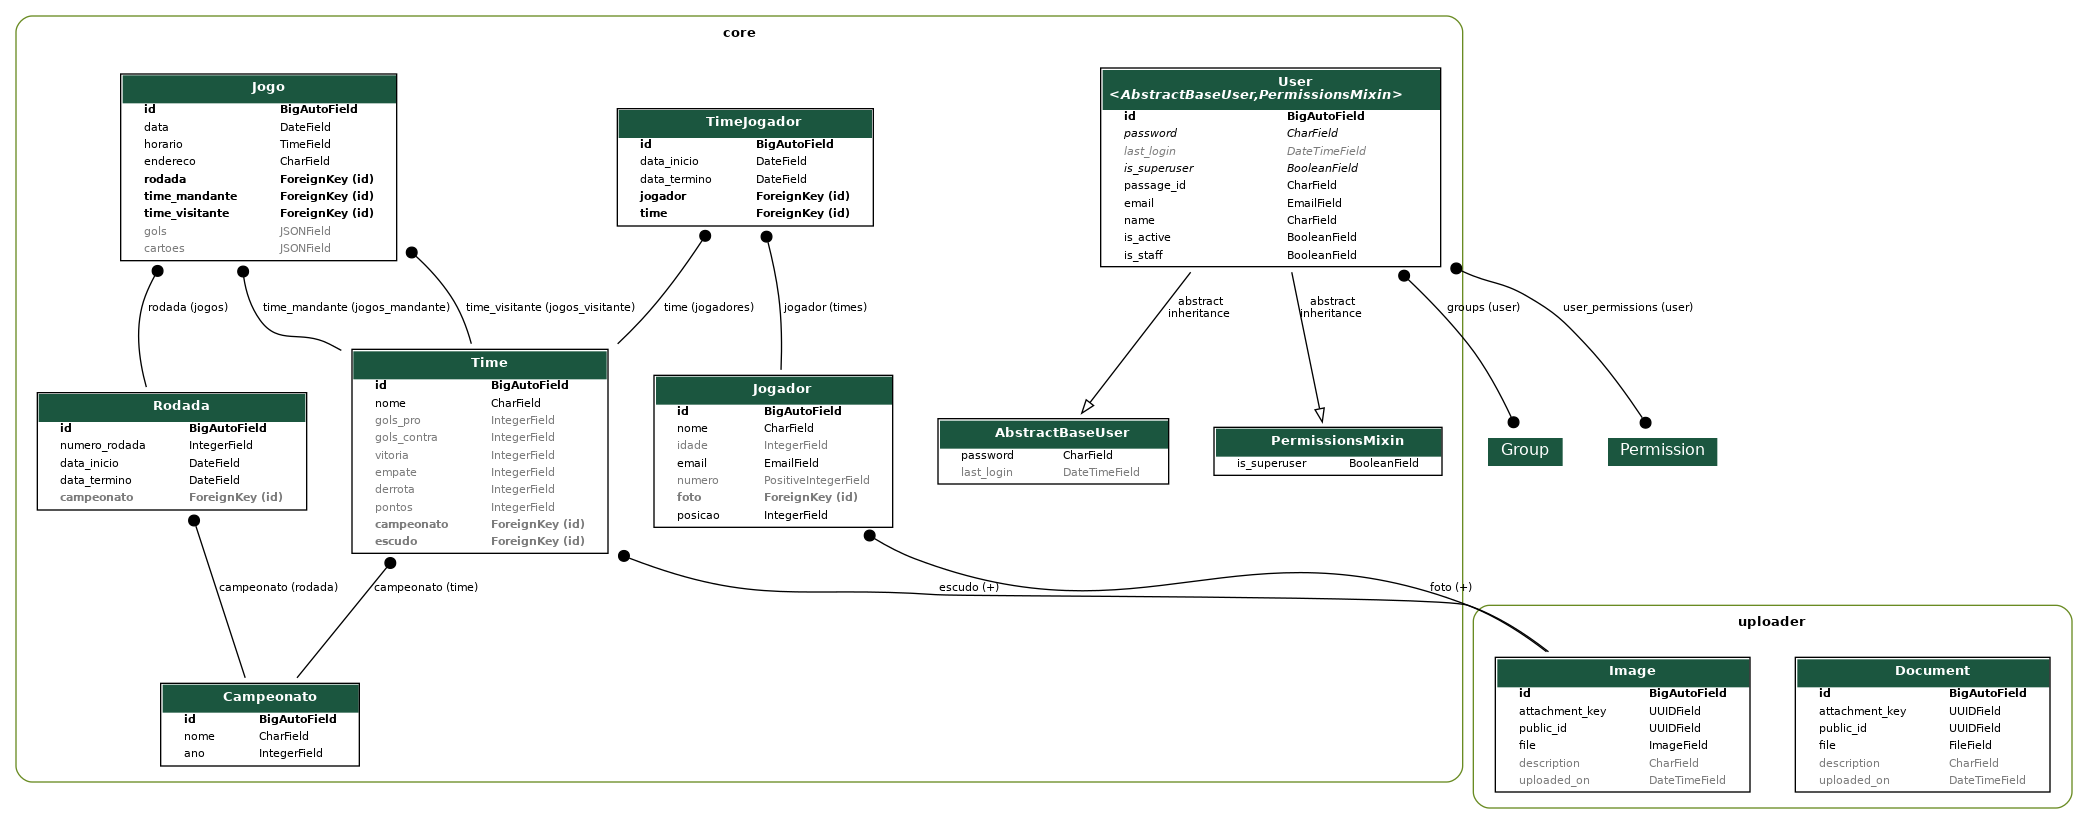
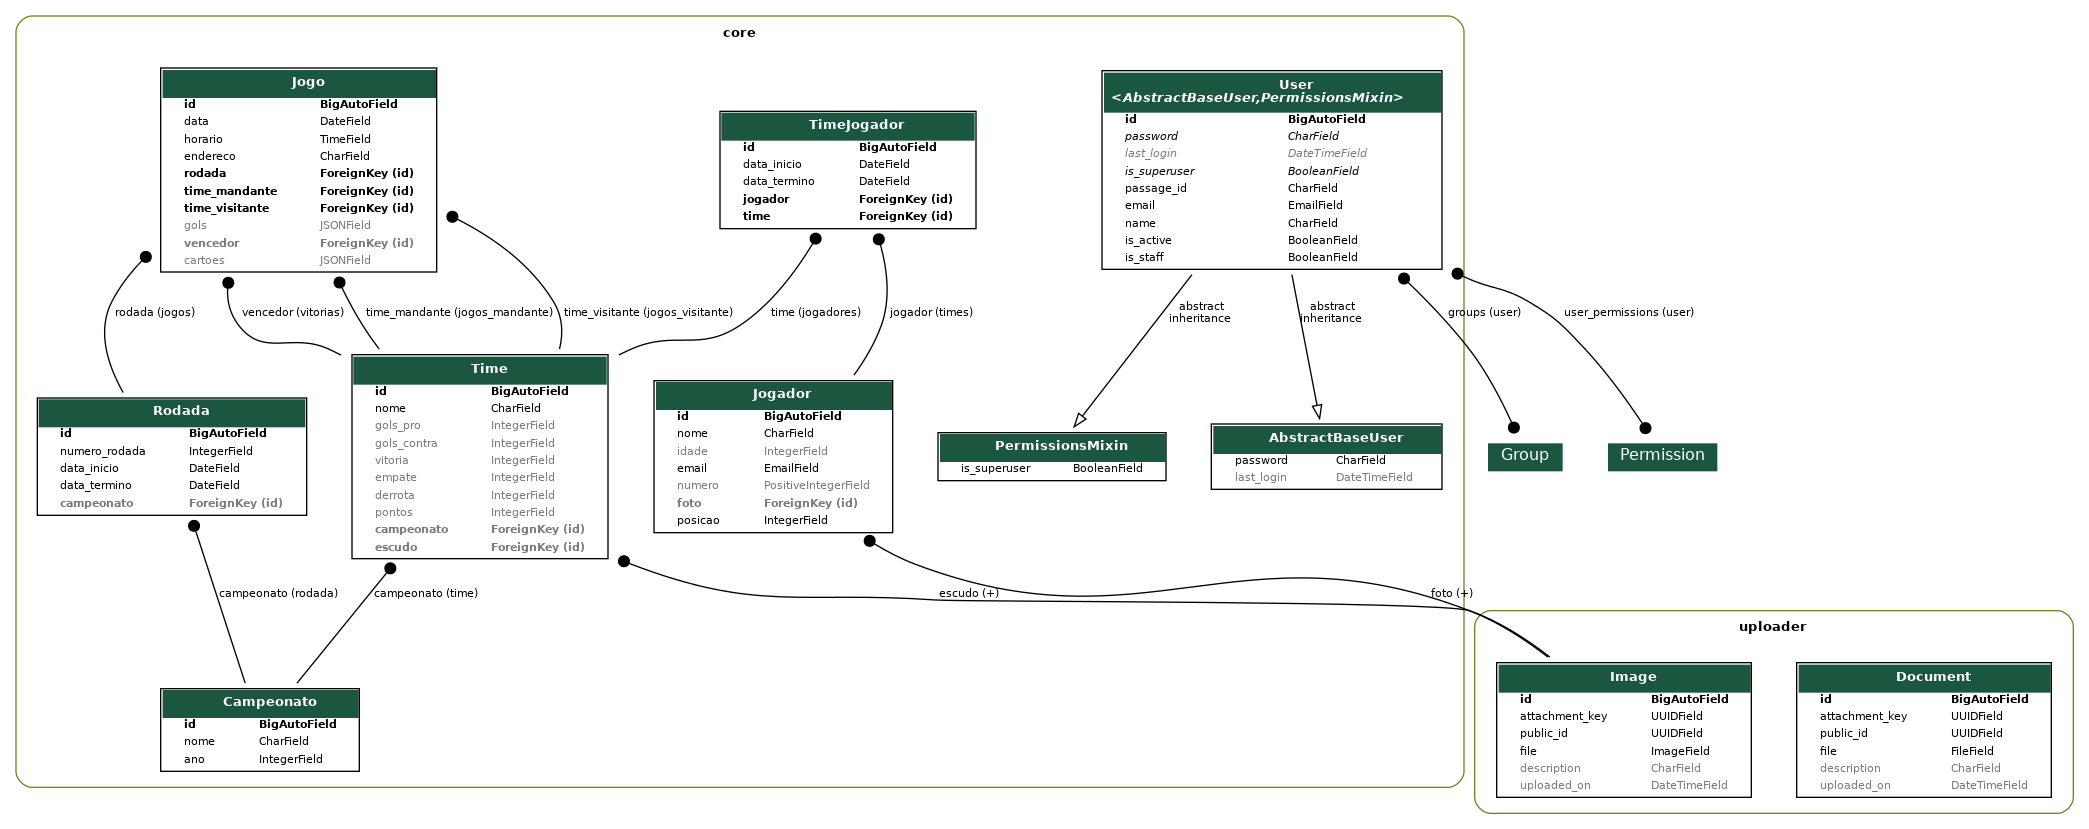
No campo vencedor colocar o time (objeto) e será calculado no post_save
-> para cada jogo, no get_ultimos_jogos, você vai olhar se vencedor é:
----- igual o time -> resultado.append(1)
----- igual a None -> resultado.append(0)
----- senao.. resultado.append(-1)

diff --git a/core/models/jogo.py b/core/models/jogo.py
@@ -13,6 +13,7 @@ class Jogo(models.Model):
     time_mandante = models.ForeignKey(Time, on_delete=models.PROTECT, related_name="jogos_mandante")
     time_visitante = models.ForeignKey(Time, on_delete=models.PROTECT, related_name="jogos_visitante")
     gols = models.JSONField(null=True, blank=True)
+    vencedor = models.ForeignKey(Time, on_delete=models.PROTECT, related_name="vitorias", blank=True, null=True)
     cartoes = models.JSONField(null=True, blank=True)
 
 
@@ -101,15 +102,19 @@ def vitoria_derrota(sender, instance, **kwargs):
                     timeV_gols += 1
                 print("prints dos zikas do bagulho !!!!!", timeM_gols, timeV_gols)
         if timeM_gols > timeV_gols:
+                jogo.resultado = time_mandante
                 time_mandante.vitoria += 1
                 time_mandante.pontos += 3
                 timeM_gols = 0
                 timeV_gols = 0
+                jogo.resultado.save()
                 time_mandante.save()
         elif timeM_gols < timeV_gols:
+                jogo.resultado = time_visitante
                 time_mandante.derrota += 1
                 timeM_gols = 0
                 timeV_gols = 0
+                jogo.resultado.save()
                 time_mandante.save()
         else:
                 time_mandante.empate += 1
@@ -130,15 +135,19 @@ def vitoria_derrota(sender, instance, **kwargs):
                     timeV_gols += 1
                 print("prints dos zikas do bagulho !!!!!", timeM_gols, timeV_gols)
         if timeM_gols > timeV_gols:
+                jogo.resultado = time_visitante
                 time_visitante.derrota = time_visitante.derrota + 1
                 timeM_gols = 0
                 timeV_gols = 0
+                jogo.resultado.save()
                 time_visitante.save()
         elif timeM_gols < timeV_gols:
+                jogo.resultado = time_mandante
                 time_visitante.vitoria = time_visitante.vitoria + 1
                 timeM_gols = 0
                 timeV_gols = 0
                 time_visitante.pontos += 3 
+                jogo.resultado.save()
                 time_visitante.save()
         else:
                 time_visitante.empate += 1

diff --git a/core/serializers/time.py b/core/serializers/time.py
@@ -1,9 +1,10 @@
-from rest_framework.serializers import ModelSerializer, SlugRelatedField, CharField
+from rest_framework.serializers import ModelSerializer, SlugRelatedField, CharField, SerializerMethodField
+from itertools import chain
 
 from uploader.models import Image
 from uploader.serializers import ImageSerializer
 
-from core.models import Time, TimeJogador
+from core.models import Time, TimeJogador, Jogo
 
 class JogadorTimeSerializer(ModelSerializer):
     class Meta:
@@ -22,6 +23,21 @@ class TimeListSerializer(ModelSerializer):
 class TimeDetailSerializer(ModelSerializer):
     escudo = ImageSerializer(required=False)
     jogadores = JogadorTimeSerializer(many=True)
+    ultimos_jogos = SerializerMethodField()
+
+    def get_ultimos_jogos(self, object):
+        mandante = object.jogos_mandante.order_by('-id') if len(object.jogos_mandante.order_by('-id')) < 5 else object.jogos_mandante.order_by('-id')[:5]
+        visitante = object.jogos_visitante.order_by('-id') if len(object.jogos_visitante.order_by('-id')) < 5 else object.jogos_visitante.order_by('-id')[:5]
+        jogos = list(chain(mandante, visitante))
+        resultados = []
+        for jogo in jogos:
+            breakpoint()
+        return [1, 0, -1, 1, 1]
+        
+        # print(object.id)
+        # jogos = Jogo.objects.filter(Q(time_mandante__id=object.id | time_visitante__id=object.id))
+        # return []
+
     
     class Meta:
         model = Time
@@ -36,7 +52,8 @@ class TimeDetailSerializer(ModelSerializer):
             "pontos", 
             "campeonato", 
             "escudo", 
-            "jogadores"
+            "jogadores",
+            "ultimos_jogos"
         ]
 
 

diff --git a/core/migrations/0007_jogo_vencedor.py b/core/migrations/0007_jogo_vencedor.py
@@ -1,0 +1,25 @@
+# Generated by Django 5.1.1 on 2024-10-30 18:09
+
+import django.db.models.deletion
+from django.db import migrations, models
+
+
+class Migration(migrations.Migration):
+
+    dependencies = [
+        ("core", "0006_time_empate"),
+    ]
+
+    operations = [
+        migrations.AddField(
+            model_name="jogo",
+            name="vencedor",
+            field=models.ForeignKey(
+                blank=True,
+                null=True,
+                on_delete=django.db.models.deletion.PROTECT,
+                related_name="vitorias",
+                to="core.time",
+            ),
+        ),
+    ]
